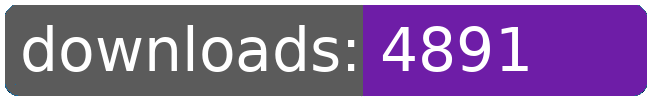
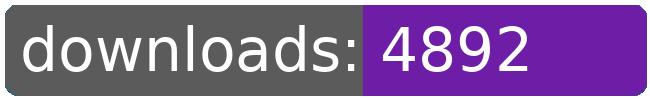
dl log written

Changed region(s): [[0.7692, 0.24, 0.8308, 0.69]]

diff --git a/README.md b/README.md
@@ -21,8 +21,8 @@
 		<td>4799</td>
 		<td>4837</td>
 		<td>4875</td>
-		<td>4891</td>
-		<td>+ 16</td>
+		<td>4892</td>
+		<td>+ 17</td>
 	</tr>
 	<tr>
 		<td>aberrant.kahet.outfitter</td>
@@ -274,8 +274,8 @@
 		<td></td>
 		<td></td>
 		<td></td>
-		<td>72580</td>
-		<td>141</td>
+		<td>72581</td>
+		<td>142</td>
 	</tr>
 </table>
 </sub></sup>
@@ -300,8 +300,8 @@
 		<td>4799</td>
 		<td>4837</td>
 		<td>4875</td>
-		<td>4891</td>
-		<td>+ 16</td>
+		<td>4892</td>
+		<td>+ 17</td>
 	</tr>
 	<tr>
 		<td>aberrant.kahet.outfitter</td>
@@ -553,8 +553,8 @@
 		<td></td>
 		<td></td>
 		<td></td>
-		<td>72580</td>
-		<td>141</td>
+		<td>72581</td>
+		<td>142</td>
 	</tr>
 </table>
 </sub></sup>
